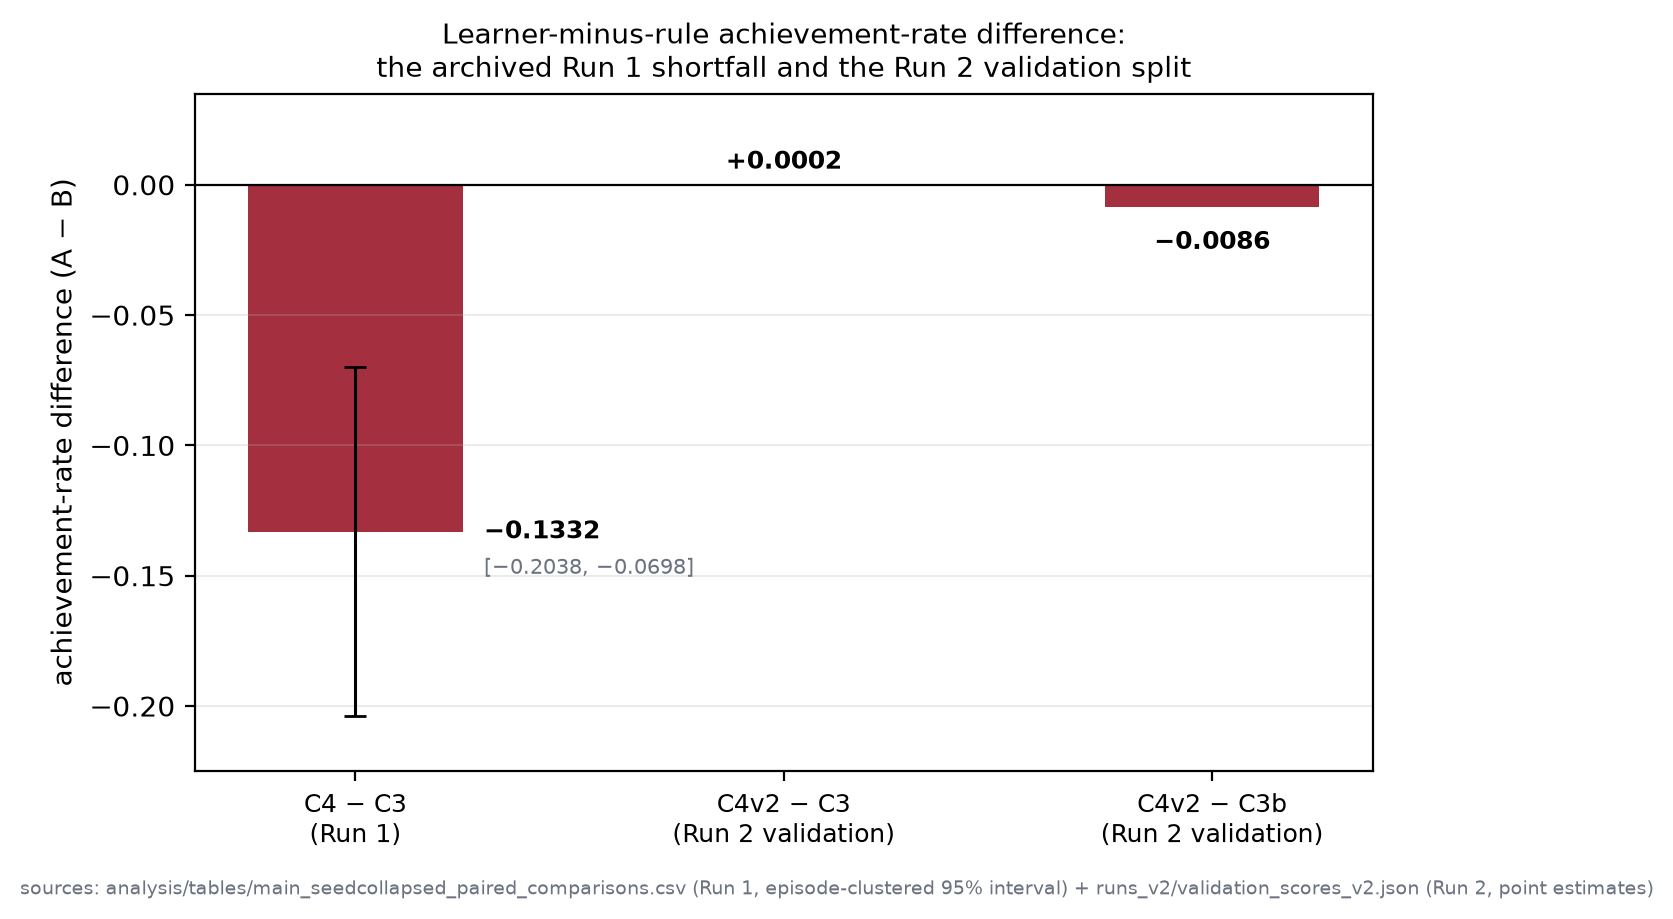
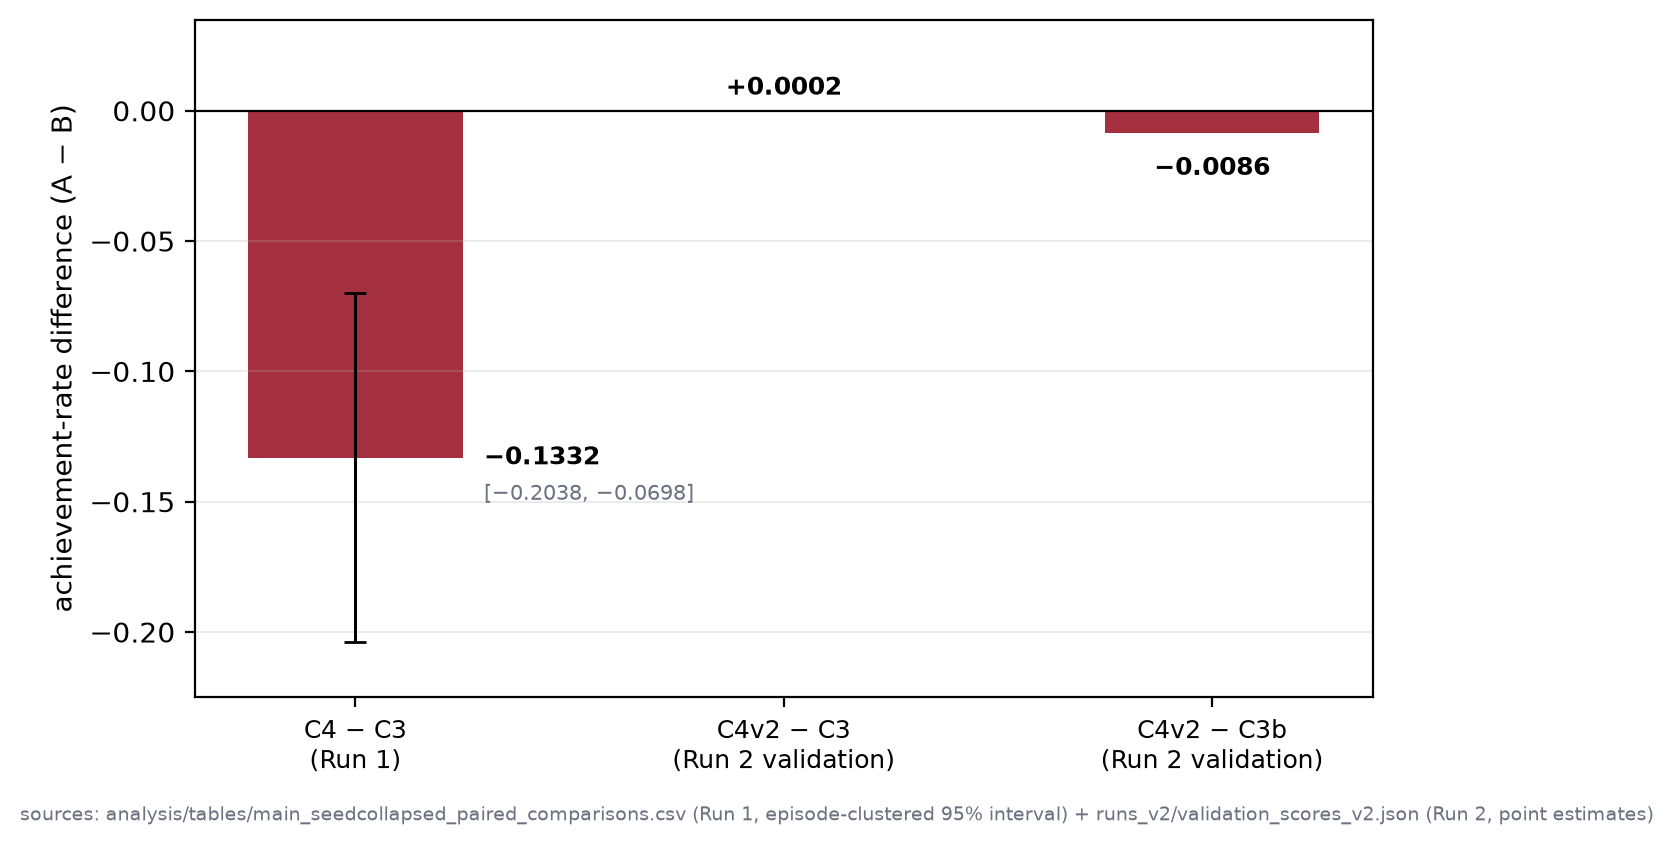
Figures: drop in-plot titles, cite panels in captions
- v2_figures.py: remove the descriptive in-plot titles from Figures 2-7 so the
  captions carry the description; drop the per-arm seed annotations from the
  validation figure, where they sat on the zero line and mislabelled the
  deterministic arms. All 26 assertions still pass.
- Regenerate the six affected PNGs.
- build_full_iem_manuscript.py: keep tables on one page, keep equations with the
  sentence that defines their symbols, and typeset the caret exponent as a real
  superscript.

diff --git a/analysis/build_full_iem_manuscript.py b/analysis/build_full_iem_manuscript.py
@@ -61,7 +61,7 @@ FIG_MAP = {
 TABLE_CAPTIONS = {
     1: "Table 1: Policy arm definitions and training configurations across the two evaluation runs.",
     2: "Table 2: Run 1 descriptive means, averaged over the 21 episodes with each episode weighted equally.",
-    3: "Table 3: Validation-split results for the corrected policy set across 21 episodes and four fault conditions.",
+    3: "Table 3: Validation-split results for the Run 2 policy set across 21 episodes and four fault instances.",
     4: "Table 4: Held-out arm means, one value per episode averaged over the 21 test episodes (frozen selection objective; learned arms averaged over five seeds).",
     5: "Table 5: Frozen composite selection score pooled over 105 runs per condition across shifted operating points.",
     6: "Table 6: Measured wall-clock inference time on the evaluation host per control step for the full feeder.",
@@ -74,6 +74,8 @@ TABLE_NOTES = {
     2: ("Achievement is averaged over the 21 episodes with each episode weighted equally. The switches "
         "column counts transitions across all 50 groups, and Table 3 reports the same quantity per group. "
         "Episode-mean and pooled figures differ, and each table states which it reports."),
+    3: ("Each arm contributes 84 runs, one for each of the 21 validation episodes crossed with four fault "
+        "instances: F0, F2 under two communication seeds, and F3. Learned arms are five-seed means."),
     4: ("Each column is built from one value per episode, and the 21 episodes are averaged. The selection "
         "score column is Equation (5) applied to the three columns to its left. The pre-registered primary "
         "contrast weights each fault id equally within an episode and is therefore not the difference of two "
@@ -84,8 +86,8 @@ TABLE_NOTES = {
         "not the reported contrast. At δ_DR = 8% the pooled difference is +0.0047 while the paired difference "
         "is +0.0212."),
     6: ("Times are wall-clock per control step for the whole feeder, obtained as the per-episode inference "
-        "time divided by 1,440 steps. The ratio column divides unrounded means, so the rounded means imply "
-        "33.3× for C4v2 where the table reports 32.8×."),
+        "time divided by 1,440 steps. The ratio column divides unrounded means; dividing the rounded means "
+        "instead gives 33.3× for C4v2."),
 }
 
 # Column widths in points for full-page tables (total = 516.1 pt)
@@ -534,6 +536,14 @@ def main():
                     p.paragraph_format.line_spacing = 1.0
                     add_formatted_runs(p, val, font_name="Arial", font_size_pt=9.0)
 
+        # Keep the whole table on one page. Every row except the last is glued
+        # to the row beneath it, so Word moves the table to the next page rather
+        # than orphaning a single row below the caption.
+        for row in t.rows[:-1]:
+            for cell in row.cells:
+                for p in cell.paragraphs:
+                    p.paragraph_format.keep_with_next = True
+
         # Note printed under the table, still in the full-width flow
         note_text = TABLE_NOTES.get(table_idx)
         if note_text:
@@ -785,11 +795,30 @@ def main():
             p.paragraph_format.space_before = Pt(4)
             p.paragraph_format.space_after = Pt(4)
             p.paragraph_format.keep_together = True
+            # The equation stays with the sentence that defines its symbols.
+            p.paragraph_format.keep_with_next = True
             r_form = p.add_run(formula_text)
             r_form.font.name = "Cambria Math"
             r_form.font.size = Pt(9.5)
             r_form.italic = True
-            
+
+            # A caret exponent is typeset as a real superscript, so the
+            # published equation never carries a literal "^" character.
+            if "^" in formula_text:
+                segs = formula_text.split("^")
+                r_form.text = segs[0]
+                for seg in segs[1:]:
+                    r_sup = p.add_run(seg[0])
+                    r_sup.font.name = "Cambria Math"
+                    r_sup.font.size = Pt(9.5)
+                    r_sup.italic = True
+                    r_sup.font.superscript = True
+                    if seg[1:]:
+                        r_tail = p.add_run(seg[1:])
+                        r_tail.font.name = "Cambria Math"
+                        r_tail.font.size = Pt(9.5)
+                        r_tail.italic = True
+
             if eq_num:
                 r_tab = p.add_run(f"    ({eq_num})")
                 r_tab.font.name = "Arial"

diff --git a/analysis/v2_figures.py b/analysis/v2_figures.py
@@ -125,15 +125,10 @@ def fig_val_arms() -> None:
         # labels sit almost at the same height; stagger those two pairs
         dy = 0.024 if abs(s - a) < 0.008 else 0.006
         ax.text(xi + 0.2, a + dy, f"{a:.4f}", ha="center", fontsize=7.5)
-        if n > 1:
-            ax.text(xi, -0.055, f"{n} seeds", ha="center", fontsize=7,
-                    color=C_REF)
     ax.set_xticks(x)
     ax.set_xticklabels(labels)
-    ax.set_ylim(-0.10, 0.74)
+    ax.set_ylim(-0.04, 0.66)
     ax.set_ylabel("value")
-    ax.set_title("Corrected policy set on the validation split (21 episodes): "
-                 "both selection criteria shown", fontsize=10)
     ax.legend(frameon=False, fontsize=9, loc="upper right")
     ax.grid(**GRID)
     ax.axhline(0, color="black", linewidth=0.6)
@@ -203,8 +198,6 @@ def fig_gap_closure() -> None:
     ax.set_xticklabels([p[0] for p in pairs], fontsize=9)
     ax.set_ylabel("achievement-rate difference (A \u2212 B)")
     ax.set_ylim(-0.225, 0.035)
-    ax.set_title("Learner-minus-rule achievement-rate difference:\nthe archived "
-                 "Run 1 shortfall and the Run 2 validation split", fontsize=10)
     ax.grid(**GRID)
     fig.text(0.01, -0.03,
              "sources: analysis/tables/main_seedcollapsed_paired_comparisons.csv "
@@ -386,9 +379,6 @@ def fig_outage_coverage() -> None:
     ax = axes[0]
     ax.fill_between(hours, hist, color=C_MAIN, alpha=0.85)
     ax.set_ylabel("DR steps\n(21 held-out\nepisodes)")
-    ax.set_title("Demand-response steps by hour of day (21 held-out episodes)\n"
-                 "and the configured outage windows used in the study",
-                 fontsize=10)
     ax.grid(alpha=0.3, linewidth=0.6)
 
     ax2 = axes[1]
@@ -480,9 +470,6 @@ def fig_transfer() -> None:
     ax.set_xlim(-0.045, 0.096)
     ax.axvline(0, color="black", linewidth=0.8)
     ax.set_xlabel("selection-score difference (learner \u2212 re-tuned rule)")
-    ax.set_title("Transfer across operating points: learner, never retrained, "
-                 "minus the per-condition re-tuned rule\nselection score, "
-                 "episode-clustered 95% intervals (post-hoc)", fontsize=10)
     handles = [
         Line2D([], [], marker="o", linestyle="none", mfc=C_MAIN, mec=C_MAIN,
                ms=7, label="interval excludes zero"),
@@ -545,9 +532,6 @@ def fig_baselines() -> None:
     ax.set_xticklabels([lab for lab, _ in rows], fontsize=8)
     ax.set_ylim(0, 0.64)
     ax.set_ylabel("raw achievement rate (validation split)")
-    ax.set_title("Baseline set on the validation split\n"
-                 "the tuned rule and the learner evaluated the same 144 "
-                 "candidates", fontsize=10)
     ax.grid(**GRID)
     fig.text(0.01, -0.03,
              "source: runs_v2/validation_scores_v2.json; candidate budgets from "
@@ -794,8 +778,6 @@ def fig_primary_forest() -> None:
     axA.set_title("(a) comparisons at the margin (\u00b1\u03b4 shown)",
                   fontsize=9.5)
     axB.set_title("(b) comparisons far beyond \u03b4", fontsize=9.5)
-    fig.suptitle("Held-out achievement-rate differences: 21 episodes, "
-                 "episode-clustered 95% intervals", fontsize=11, y=0.985)
     handles = [
         Line2D([], [], marker="o", linestyle="none", mfc=C_MAIN, mec=C_MAIN,
                ms=7, label="equal weight per fault id"),
